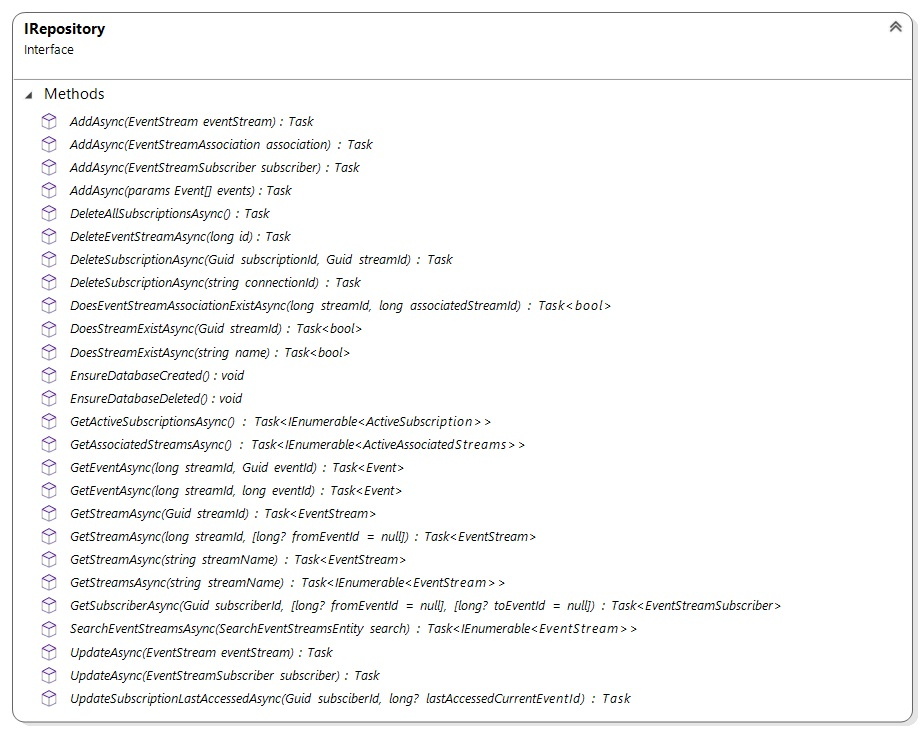
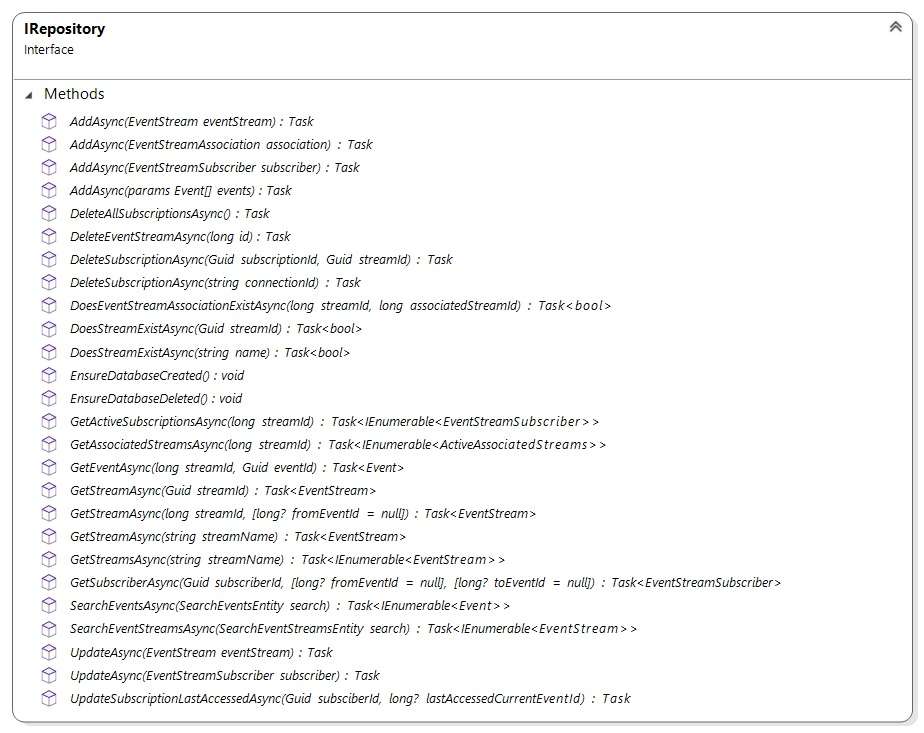
deleted un-needed code.

Changed region(s): [[0.0606, 0.6603, 0.8485, 0.8404], [0.2424, 0.5703, 0.6364, 0.6303]]

diff --git a/AspNetCore.SignalR.EventStream/Repositories/CosmosDbRepository.cs b/AspNetCore.SignalR.EventStream/Repositories/CosmosDbRepository.cs
@@ -246,19 +246,6 @@ namespace AspNetCore.SignalR.EventStream.Repositories
             }
         }
 
-        public async Task<Event> GetEventAsync(long streamId, long eventId)
-        {
-            var @event = await _context.Events.WithPartitionKey(streamId.ToString()).AsNoTracking()
-                                              .FirstOrDefaultAsync(e => e.Id == eventId);
-
-            if (@event != null)
-            {
-                @event.Stream = await _context.EventsStream.SingleAsync(s => s.Id == @event.StreamId);
-            }
-
-            return @event;
-        }
-
         public async Task<Event> GetEventAsync(long streamId, Guid eventId)
         {
             var @event = await _context.Events.WithPartitionKey(streamId.ToString()).AsNoTracking()
@@ -345,21 +332,6 @@ namespace AspNetCore.SignalR.EventStream.Repositories
             return eventStreams;
         }
 
-        public async Task<IEnumerable<ActiveSubscription>> GetActiveSubscriptionsAsync()
-        {
-            var subscribers = await _context.Subscribers.AsNoTracking().ToListAsync();
-
-            var streamIds = subscribers.Select(s => s.StreamId);
-
-            var streams = await _context.EventsStream.Where(s => streamIds.Contains(s.Id)).ToListAsync();
-
-            return subscribers.Select(s => new ActiveSubscription
-            {
-                StreamId = streams.Single(st => st.Id == s.StreamId).StreamId,
-                SubscriptionId = s.SubscriberId
-            });
-        }
-
         public async Task<IEnumerable<EventStreamSubscriber>> GetActiveSubscriptionsAsync(long streamId)
         {
             var subscribers = await _context.Subscribers.AsNoTracking().Where(s => s.StreamId == streamId).ToListAsync();
@@ -369,17 +341,6 @@ namespace AspNetCore.SignalR.EventStream.Repositories
             subscribers.ForEach(s => s.Stream = stream);
 
             return subscribers;
-        }
-
-        public async Task<IEnumerable<ActiveAssociatedStreams>> GetAssociatedStreamsAsync()
-        {
-            var associations = await _context.EventStreamsAssociation.ToListAsync();
-            return associations.GroupBy(s => s.StreamId)
-                                .Select(s => new ActiveAssociatedStreams
-                                {
-                                    StreamId = s.Key,
-                                    AssociatedStreamIds = s.Select(z => z.AssociatedStreamId)
-                                });
         }
 
         public async Task<IEnumerable<ActiveAssociatedStreams>> GetAssociatedStreamsAsync(long streamId)

diff --git a/AspNetCore.SignalR.EventStream/Repositories/SqlServerRepository.cs b/AspNetCore.SignalR.EventStream/Repositories/SqlServerRepository.cs
@@ -215,11 +215,6 @@ namespace AspNetCore.SignalR.EventStream.Repositories
             }
         }
 
-        public async Task<Event> GetEventAsync(long streamId, long eventId)
-        {
-            return await _context.Events.Include(e => e.Stream).AsNoTracking().FirstOrDefaultAsync(e => e.StreamId == streamId && e.Id == eventId);
-        }
-
         public async Task<Event> GetEventAsync(long streamId, Guid eventId)
         {
             return await _context.Events.Include(e => e.Stream).AsNoTracking().FirstOrDefaultAsync(e => e.StreamId == streamId && e.EventId == eventId);
@@ -272,34 +267,11 @@ namespace AspNetCore.SignalR.EventStream.Repositories
             return eventStreams;
         }
 
-        public async Task<IEnumerable<ActiveSubscription>> GetActiveSubscriptionsAsync()
-        {
-            return await _context.Subscribers.Include(s => s.Stream)
-                                             .Select(s => new ActiveSubscription
-                                             {
-                                                 StreamId = s.Stream.StreamId,
-                                                 SubscriptionId = s.SubscriberId
-                                             })
-                                             .ToListAsync();
-        }
-
         public async Task<IEnumerable<EventStreamSubscriber>> GetActiveSubscriptionsAsync(long streamId)
         {
             return await _context.Subscribers.Include(s => s.Stream)
                                              .Where(s => s.StreamId == streamId)
                                              .ToListAsync();
-        }
-
-        public async Task<IEnumerable<ActiveAssociatedStreams>> GetAssociatedStreamsAsync()
-        {
-            return await _context.EventStreamsAssociation.AsNoTracking().Include(s => s.Stream)
-                                                         .Include(s => s.AssociatedStream)
-                                                         .GroupBy(s => s.StreamId, (x, y) => new ActiveAssociatedStreams 
-                                                         { 
-                                                             StreamId = x, 
-                                                             AssociatedStreamIds = y.Select(z => z.AssociatedStreamId)
-                                                         })
-                                                         .ToListAsync();
         }
 
         public async Task<IEnumerable<ActiveAssociatedStreams>> GetAssociatedStreamsAsync(long streamId)

diff --git a/AspNetCore.SignalR.EventStream/Repositories/SqliteRepository.cs b/AspNetCore.SignalR.EventStream/Repositories/SqliteRepository.cs
@@ -217,11 +217,6 @@ namespace AspNetCore.SignalR.EventStream.Repositories
             }
         }
 
-        public async Task<Event> GetEventAsync(long streamId, long eventId)
-        {
-            return await _context.Events.Include(e => e.Stream).AsNoTracking().FirstOrDefaultAsync(e => e.StreamId == streamId && e.Id == eventId);
-        }
-
         public async Task<Event> GetEventAsync(long streamId, Guid eventId)
         {
             return await _context.Events.Include(e => e.Stream).AsNoTracking().FirstOrDefaultAsync(e => e.StreamId == streamId && e.EventId == eventId);
@@ -274,34 +269,11 @@ namespace AspNetCore.SignalR.EventStream.Repositories
             return eventStreams;
         }
 
-        public async Task<IEnumerable<ActiveSubscription>> GetActiveSubscriptionsAsync()
-        {
-            return await _context.Subscribers.Include(s => s.Stream)
-                                             .Select(s => new ActiveSubscription
-                                             {
-                                                 StreamId = s.Stream.StreamId,
-                                                 SubscriptionId = s.SubscriberId
-                                             })
-                                             .ToListAsync();
-        }
-
         public async Task<IEnumerable<EventStreamSubscriber>> GetActiveSubscriptionsAsync(long streamId)
         {
             return await _context.Subscribers.Include(s => s.Stream)
                                              .Where(s => s.StreamId == streamId)
                                              .ToListAsync();
-        }
-
-        public async Task<IEnumerable<ActiveAssociatedStreams>> GetAssociatedStreamsAsync()
-        {
-            return await _context.EventStreamsAssociation.AsNoTracking().Include(s => s.Stream)
-                                                         .Include(s => s.AssociatedStream)
-                                                         .GroupBy(s => s.StreamId, (x, y) => new ActiveAssociatedStreams
-                                                         {
-                                                             StreamId = x,
-                                                             AssociatedStreamIds = y.Select(z => z.AssociatedStreamId)
-                                                         })
-                                                         .ToListAsync();
         }
 
         public async Task<IEnumerable<ActiveAssociatedStreams>> GetAssociatedStreamsAsync(long streamId)

diff --git a/AspNetCore.SignalR.EventStream/Repositories/IRepository.cs b/AspNetCore.SignalR.EventStream/Repositories/IRepository.cs
@@ -20,16 +20,13 @@ namespace AspNetCore.SignalR.EventStream.Repositories
         void EnsureDatabaseDeleted();
         void EnsureDatabaseCreated();
 
-        Task<IEnumerable<ActiveSubscription>> GetActiveSubscriptionsAsync();
         Task<IEnumerable<EventStreamSubscriber>> GetActiveSubscriptionsAsync(long streamId);
         Task<EventStreamSubscriber?> GetSubscriberAsync(Guid subscriberId, long? fromEventId = null, long? toEventId = null);
-        Task<Event> GetEventAsync(long streamId, long eventId);
         Task<Event> GetEventAsync(long streamId, Guid eventId);
         Task<Entities.EventStream> GetStreamAsync(Guid streamId);
         Task<Entities.EventStream> GetStreamAsync(long streamId, long? fromEventId = null);
         Task<Entities.EventStream> GetStreamAsync(string streamName);
         Task<IEnumerable<Entities.EventStream>> GetStreamsAsync(string streamName);
-        Task<IEnumerable<ActiveAssociatedStreams>> GetAssociatedStreamsAsync();
         Task<IEnumerable<ActiveAssociatedStreams>> GetAssociatedStreamsAsync(long streamId);
 
         Task<bool> DoesStreamExistAsync(string name);
